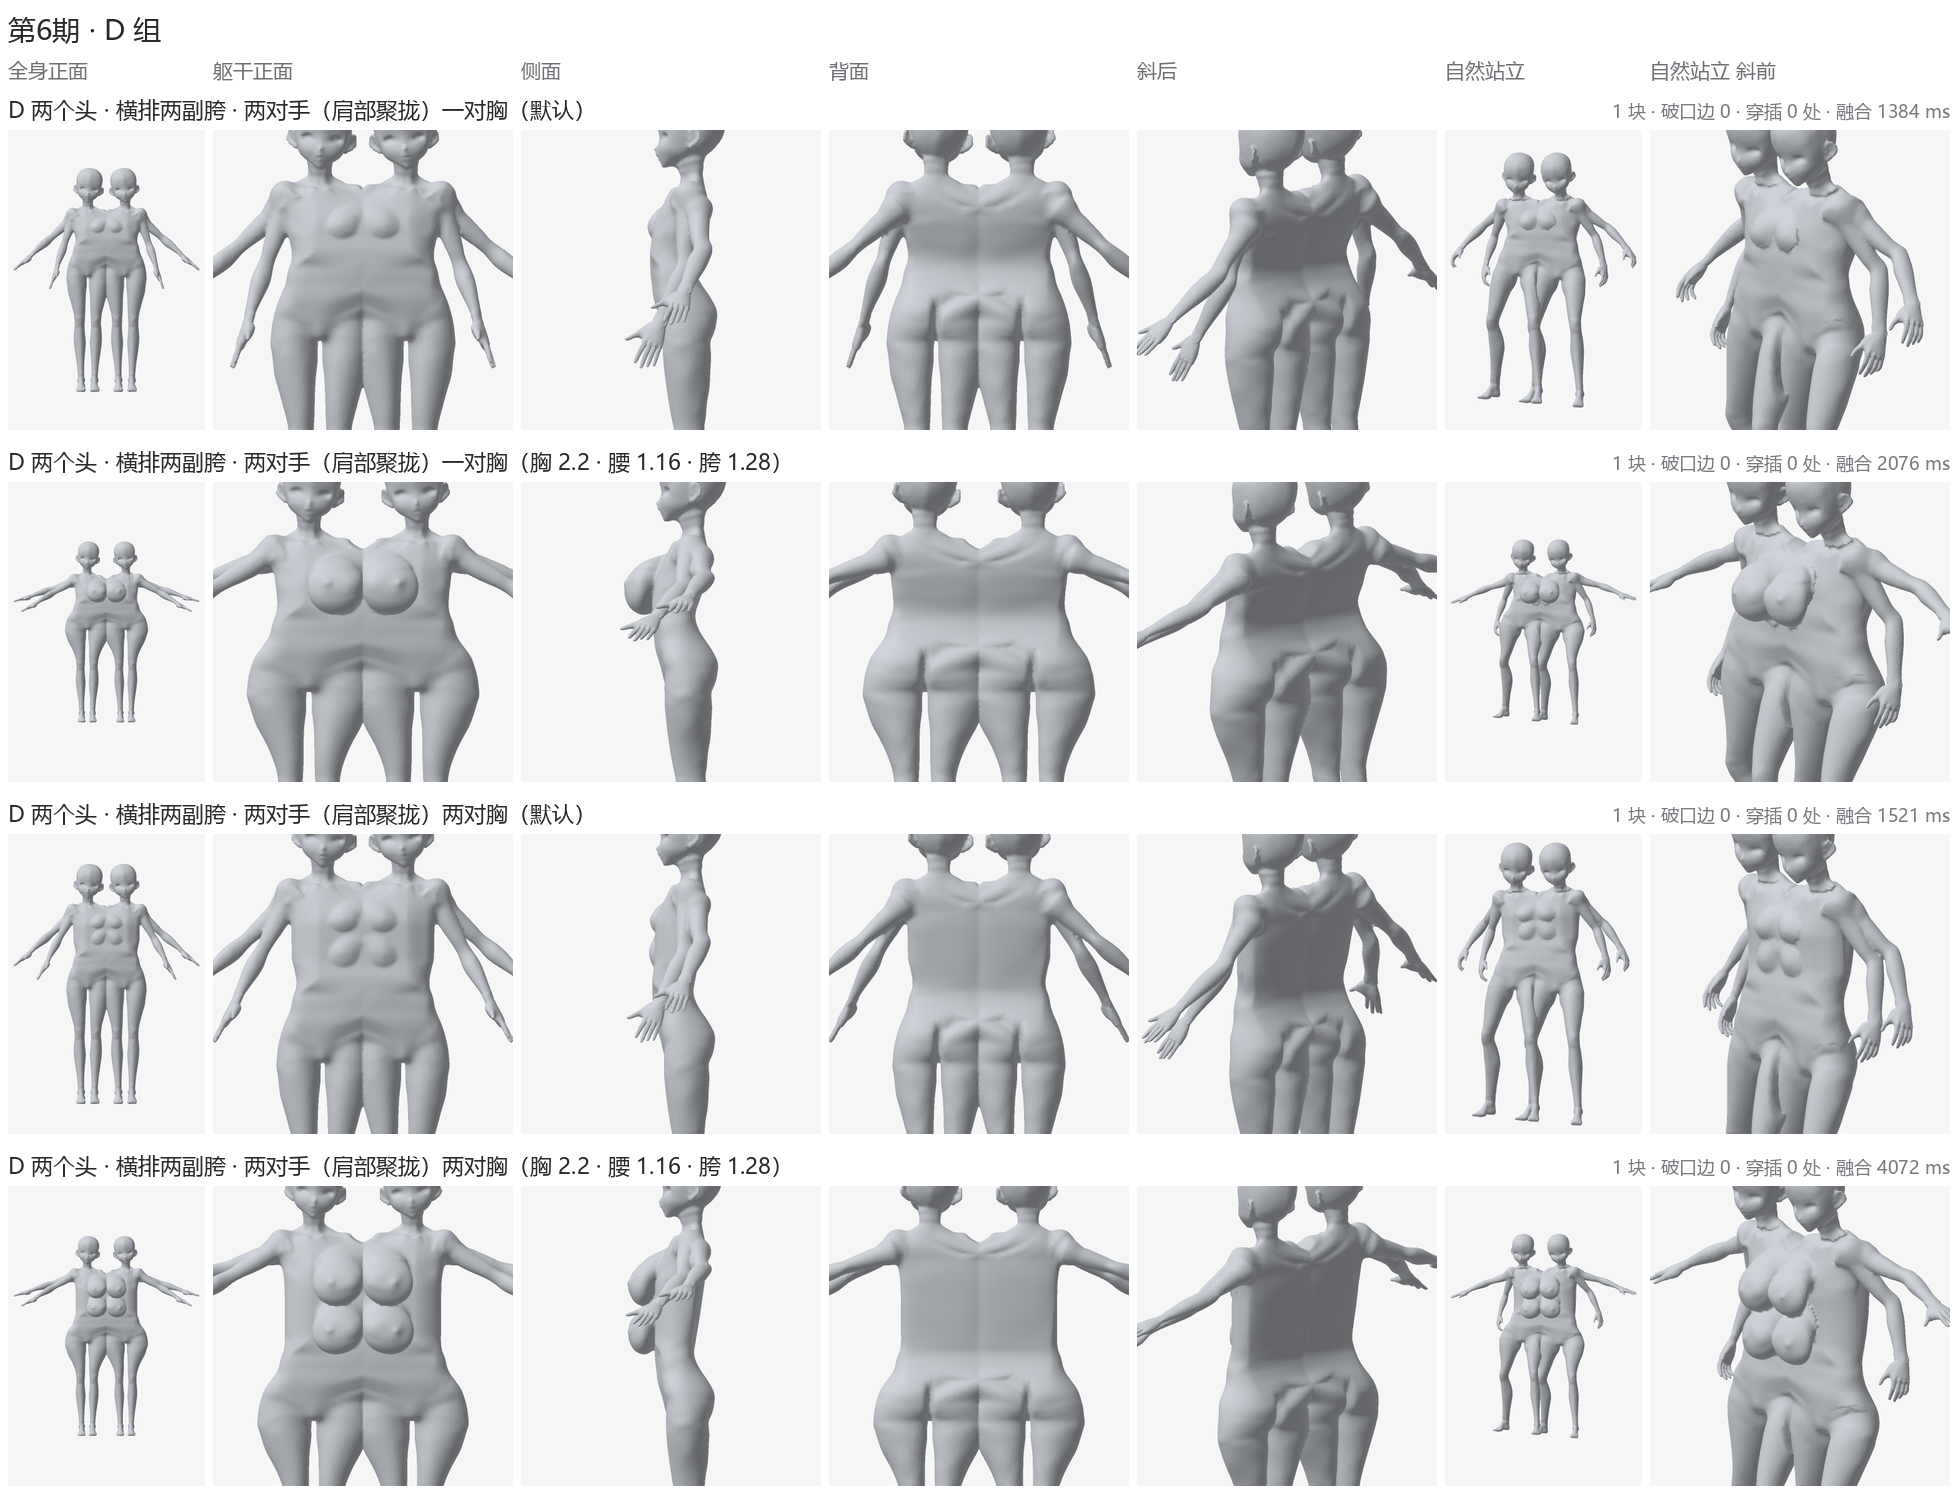
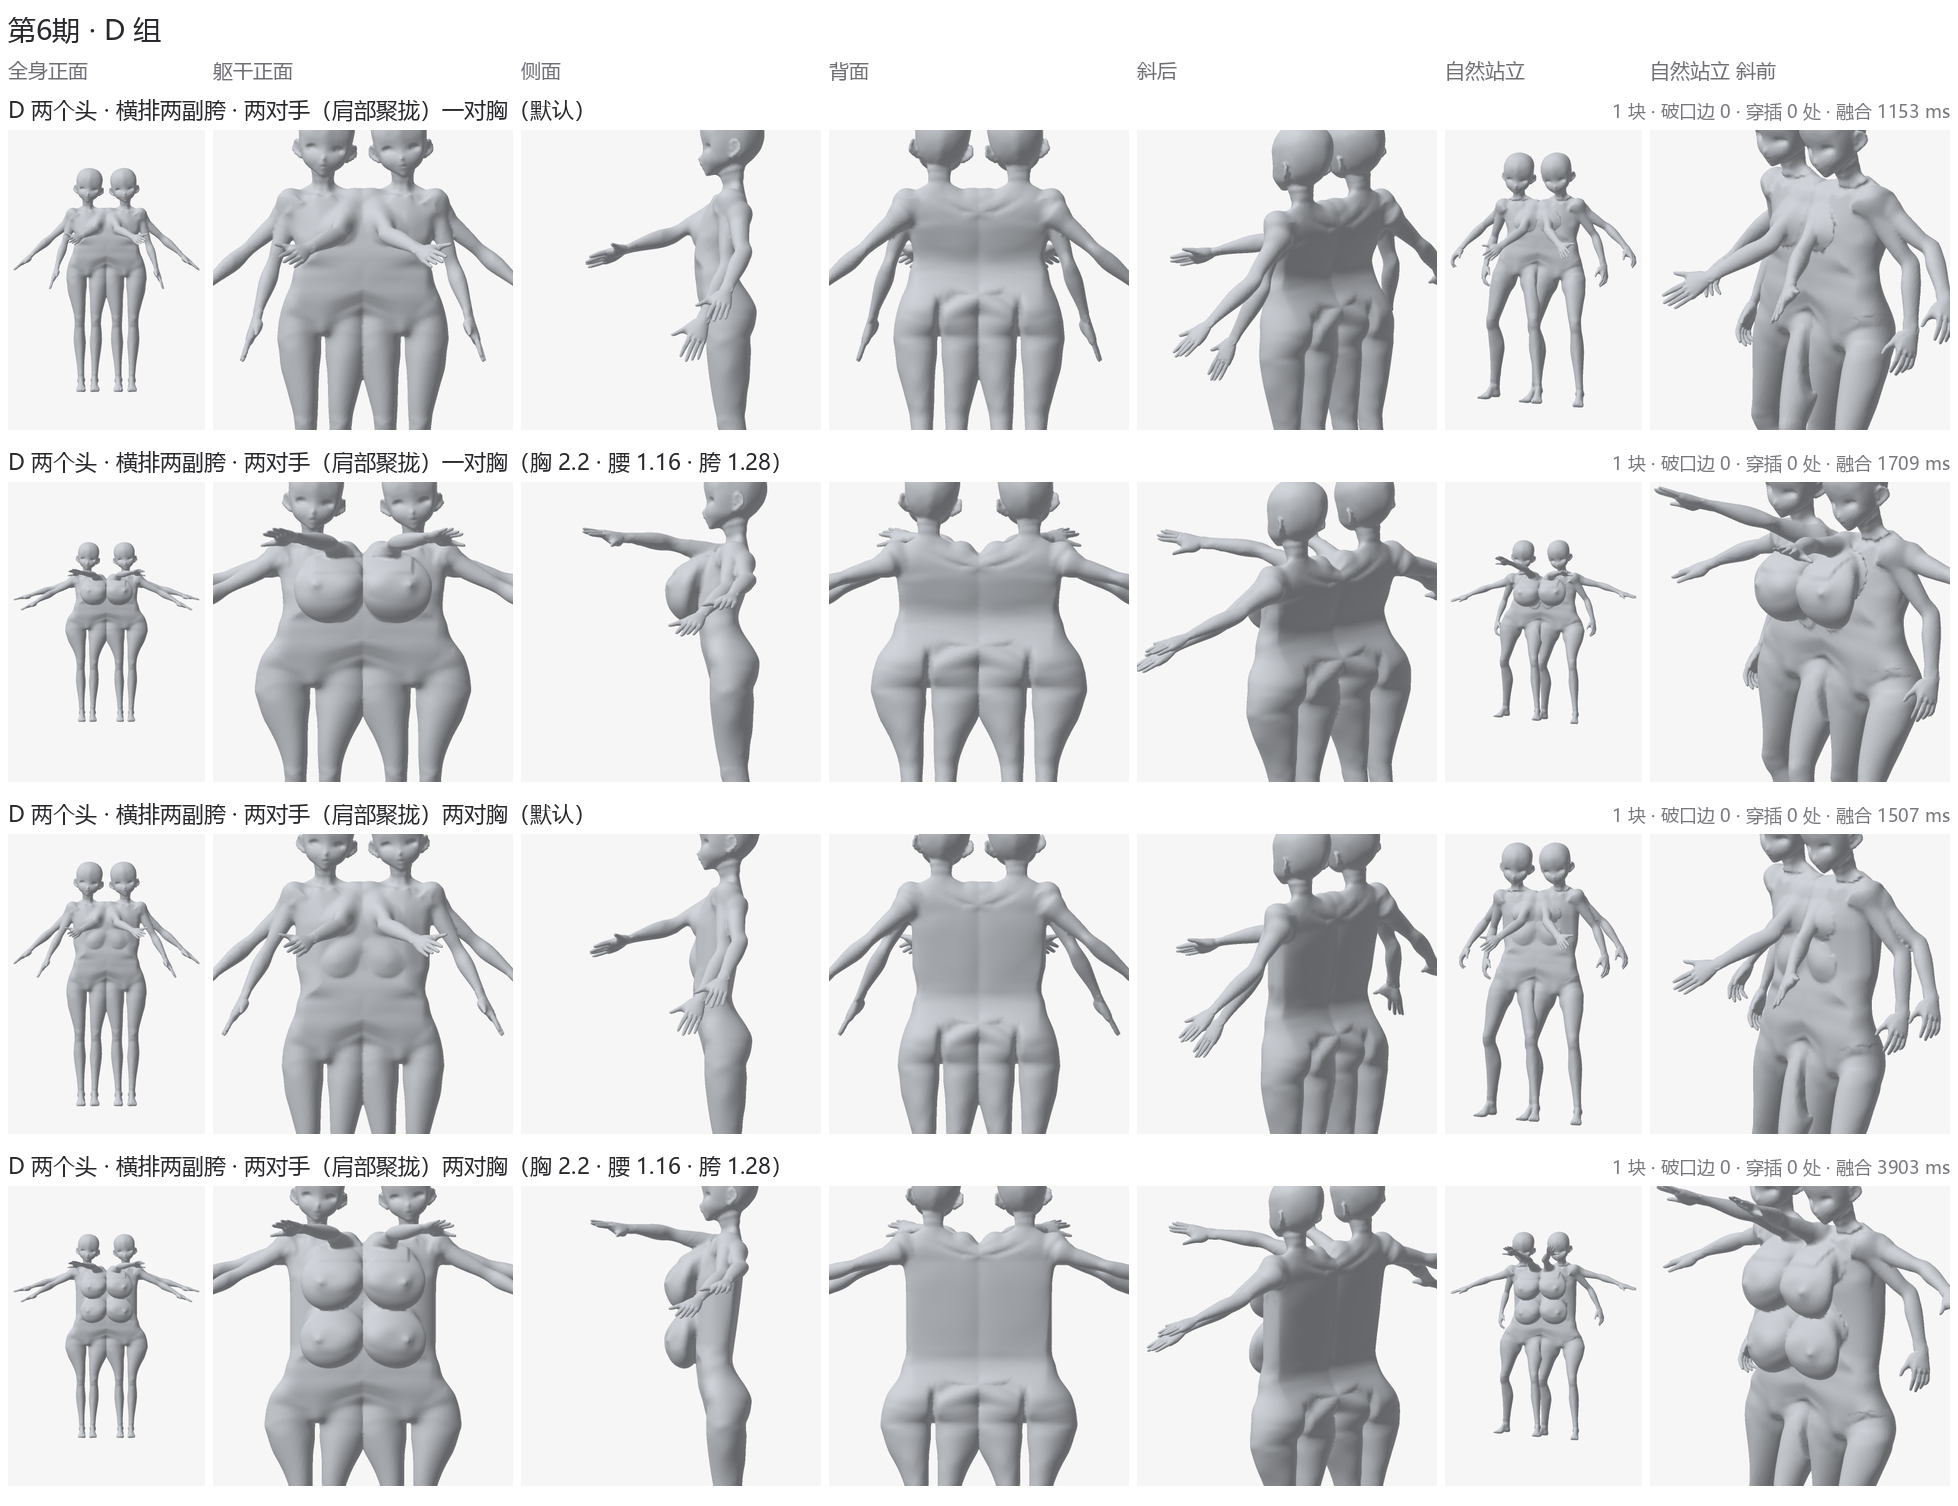
宽躯干（C、D）：正中的胸放大 1.3 倍，每个人里侧加一条手臂
- 正中那对胸照正中线放大 1.3 倍（WIDE_CHEST），多排胸的排距跟着放大
- 每个人里侧的肩膀上一条手臂（对面那个人外侧最贴身的那条挪过来），往前伸、往自己那边偏，
  胸越大抬得越高（胸 1.6 以上多抬 40 度，不擦着放大过的胸顶，网格不破洞）
- 测试和验收（docs/accept/6-wide）

diff --git a/src/geometry/animeLayout.ts b/src/geometry/animeLayout.ts
@@ -15,6 +15,7 @@ import { FINGER_JOINTS, HAND_STUMP, handGraft } from '../anime/hand';
 import { type BodySpec, legPlan } from '../model/spec';
 import { type CompiledField, castRay, compileField } from '../sdf/field';
 import { wideFrame } from '../sdf/grids';
+import { BESIDE_DROP, BESIDE_YAW } from './torsos';
 import { type Stretch, restretch } from '../sdf/stretch';
 import { type Figure, type Graft, type GridShape, type Part, type Prim, type SpreadX, type WidenBand, nthName } from './figure';
 import { type CustomHead, type HeadHair, makeFace, makeHead } from './head';
@@ -146,6 +147,13 @@ const ROW_TAPER = 0.3;
  */
 const BACK_BAND: [number, number] = [1.06, 1.24];
 const BACK_BLEND: [front: number, back: number] = [0.03, -0.03];
+/**
+ * 并成一个宽躯干的（C、D）：正中那对胸（按一个人算）整个放大几倍（沿表面横着、竖着、往外都放大，照正中线放大，乳沟不挤扁）：
+ * 一个人的胸贴在两个人宽的躯干上看着小，照参考图 CD-2、CD-3 正中那对要大一截。多排胸的排距跟着放大
+ */
+const WIDE_CHEST = 1.3;
+/** 并成一个宽躯干的，里侧的手臂胸 1.6 以上多抬多少（见下面里侧的手臂） */
+const WIDE_ARM_LIFT = 40 * (Math.PI / 180);
 /** 多排胸时手臂沿躯干上下排隔多远：第二对从第一对下面一点、腋下的肋骨侧面长出来（照参考图 A-arms-3d、A-rows-arms），不跟着胸一排排往下 */
 const ARM_ROW = 0.1;
 /** 腰最细的地方大概多高（人腿人马后面接的那截腰照这里的粗细） */
@@ -346,7 +354,7 @@ export function layoutAnime(spec: BodySpec): Figure {
   /** 每排胸照设定多大：往小调时不缩小，整个往胸口里沉（见下面胸）。下排和第一排一比一（以前往下每排小一成） */
   const rowSize = Math.max(1, sh.bust);
   /** 相邻两排隔多远（手臂沿躯干上下排时也照它排）：多排胸照胸的大小排（见 rowTuck），只有多排手臂的照 GAP */
-  const [reachUp, reachDown] = chestReach(rowSize);
+  const [reachUp, reachDown] = chestReach(rowSize).map((r) => r * (twinned ? WIDE_CHEST : 1));
   /** 胸中心在平胸表面上的哪一点（u 沿表面横着、高度，素体自己的坐标），见下面每排胸 */
   const [chestU, chestV] = chestCenter(sh.bust);
   const gap = c.chestPairs > 1 ? reachDown + (1 - rowTuck(rowSize)) * reachUp + ROW_ROOM : GAP;
@@ -451,7 +459,7 @@ export function layoutAnime(spec: BodySpec): Figure {
   const chestAt = surfacePoint(chestFrame(), chestU, chestV);
   const chestRows = Array.from({ length: c.chestPairs }, (_, j) => {
     const y = raised(chestV) - j * gap;
-    const at = wide ? surfacePoint(wide, chestU, y) : chestAt;
+    const at = wide ? surfacePoint(wide, chestU * WIDE_CHEST, y) : chestAt;
     return { y, x: wide ? at[0] : at[0] + pushed(at[0], at[1]), z: at[2], lift: raised(chestV) - chestV - j * gap, size: rowSize };
   });
 
@@ -726,6 +734,44 @@ export function layoutAnime(spec: BodySpec): Figure {
     }
   }
 
+  /*
+   * 并成一个宽躯干的（C、D）：每个人里侧的肩膀上也长一条手臂（照参考图 CD-2、CD-3），排在外侧那几对后面。
+   * 就是对面那个人外侧最贴身的那条挪过来（里侧那个肩膀和外侧的对着那个人自己的正中线左右对称），从两根脖子中间那块肩膀上长出来，
+   * 姿势和两个上半身直立并排时里侧的手臂一样（见 torsos.ts 的 BESIDE_DROP）：往前伸、往自己那边偏；胸越大抬得越高（胸 1.6 以上多抬 WIDE_ARM_LIFT，往前略微朝上；
+   * 抬得少的话前臂擦着放大过的胸顶过去，融出来的网格在那里破洞），
+   * 从正中那对放大过的胸上面过去，不埋进胸里。
+   * 外侧聚拢着好几条的，里侧也只长一条：第二条要抬到平举，正面看像一根横在胸口上的棍
+   */
+  if (twinned) {
+    for (const outer of parts.filter((p) => p.type === 'arm' && p.name.startsWith(`Arm_${pad(c.armPairs)}_`))) {
+      const side = outer.side as 1 | -1;
+      const i = Number(/^Arm_(\d+)_/.exec(outer.name)![1]) - 1;
+      const k = c.armPairs + i - (c.armPairs - 1);
+      const name = (base: string) => nthName(`${base}_${tag(side)}`, k);
+      /** 这条手臂长在哪个人身上（-side 那一份），往那个人的正中偏 */
+      const own = -side;
+      const drop = BESIDE_DROP + WIDE_ARM_LIFT * smooth((sh.bust - 1) / 0.6);
+      const toward = (a: number): V3 => [own * Math.sin(BESIDE_YAW) * Math.sin(a), -Math.cos(a), Math.cos(BESIDE_YAW) * Math.sin(a)];
+      const dir = toward(drop);
+      const turn = quatBetween([side, 0, 0], dir);
+      const pos: V3 = [outer.pos[0] - 2 * side * twinD, outer.pos[1], outer.pos[2]];
+      const collar = rotate(quatConj(turn), [-side * Math.max(Math.abs(pos[0] - own * twinD) - 0.025, 0.02), 0.012, 0]);
+      const rename = (b: string) => (/^(Shoulder|UpperArm|LowerArm|Hand|Thumb|Index|Middle|Ring|Little)/.test(b) ? name(b.replace(/_[LR](\.\d+)?$/, '')) : b);
+      const { fuseAs: _, ...rest } = outer;
+      parts.push({
+        ...rest,
+        name: `Arm_${pad(k + 1)}_${tag(side)}`,
+        pos,
+        quat: turn,
+        grafts: [{ ...handGraft(name), ...handPlace(side, bend, elbow, handSize) }],
+        bones: outer.bones!.map((b, n) =>
+          n === 0 ? { ...b, name: rename(b.name), head: collar } : { ...b, name: rename(b.name), parent: b.parent === undefined ? undefined : rename(b.parent) },
+        ),
+        bind: quatBetween(dir, toward(Math.max(drop, Math.PI / 2))),
+      });
+    }
+  }
+
   /* ---- 胸：贴在躯干表面上的一层（见 anime/chest.ts、ChestShape），和躯干取并集 ---- */
   // 胸贴着的那块躯干和躯干一样加宽、加长；并成一个宽躯干的就是并好的那一块（胸贴在它外面，见 ChestShape.wide）
   const chestBody: GridShape = { ...torsoShape, name: 'Torso' };
@@ -762,8 +808,11 @@ export function layoutAnime(spec: BodySpec): Figure {
             size: sh.bust,
             lift,
             ...(wide ? { wide: true } : {}),
-            ...(o?.position ? { shift: [move[0] * flip, move[1], move[2]] as V3 } : {}),
-            ...(o?.scale ? { scale: o.scale } : {}),
+            // 并成一个宽躯干的照正中线放大（见 WIDE_CHEST）：中心跟着往外挪
+            ...(o?.position || wide ? { shift: [move[0] * flip + (wide ? chestU * (WIDE_CHEST - 1) : 0), move[1], move[2]] as V3 } : {}),
+            ...(o?.scale || wide
+              ? { scale: [0, 1, 2].map((k) => (o?.scale?.[k] ?? 1) * (wide ? WIDE_CHEST : 1)) as V3 }
+              : {}),
             ...(o?.rotation || droop ? { tilt: [(o?.rotation?.[0] ?? 0) + droop, o?.rotation?.[1] ?? 0, o?.rotation?.[2] ?? 0] as V3 } : {}),
           },
         ],

diff --git a/tests/twin.test.ts b/tests/twin.test.ts
@@ -2,6 +2,7 @@
 import { describe, expect, it } from 'vitest';
 import type { GridShape, Part } from '../src/geometry/figure';
 import { buildFigure } from '../src/geometry/layout';
+import { rotate, sub } from '../src/geometry/vec';
 import { type BodyCounts, type BodySpec, defaultSpec } from '../src/model/spec';
 import { castRay, compileField, fieldAt } from '../src/sdf/field';
 import { fuseParts } from '../src/sdf/fuse';
@@ -38,7 +39,7 @@ describe('两个人并成一个宽躯干', () => {
     expect(wide?.d).toBeCloseTo(twinOf(make())!.d, 9);
   });
 
-  it('两根脖子、两副胯各在一份底下；胸按一个人算摆在正中；手臂都长在两边外侧；左右对称', () => {
+  it('两根脖子、两副胯各在一份底下；胸按一个人算摆在正中、放大；外侧的手臂照设定，里侧各一条往前伸；左右对称', () => {
     useAnimeBody();
     const f = buildFigure(make());
     const d = twinOf(make())!.d;
@@ -58,10 +59,22 @@ describe('两个人并成一个宽躯干', () => {
     expect(at('Chest_01_L')[0]).toBeLessThan(0.08);
     expect(at('Chest_01_L')[0]).toBeCloseTo(-at('Chest_01_R')[0], 9);
     for (const c of chests) expect((c.prims[0] as { wide?: boolean }).wide, c.name).toBe(true);
-    // 六条手臂都在外侧那一份的肩膀上
+    for (const c of chests) expect((c.prims[0] as { scale?: number[] }).scale, c.name).toEqual([1.3, 1.3, 1.3]);
+    // 外侧那一份的肩膀上照设定三对（六条），里侧的肩膀（两根脖子中间）每个人一条：排在后面，往前伸、往那个人自己的正中偏
     const arms = f.parts.filter((p) => p.type === 'arm');
-    expect(arms).toHaveLength(6);
-    for (const arm of arms) expect(Math.abs(arm.pos[0]), arm.name).toBeGreaterThan(d + 0.05);
+    expect(arms).toHaveLength(8);
+    const inner = arms.filter((p) => Math.abs(p.pos[0]) < d);
+    expect(inner.map((p) => p.name).sort()).toEqual(['Arm_04_L', 'Arm_04_R']);
+    for (const arm of arms.filter((p) => !inner.includes(p))) expect(Math.abs(arm.pos[0]), arm.name).toBeGreaterThan(d + 0.05);
+    for (const arm of inner) {
+      // 长在 -side 那个人身上（左手长在右边那个人的里侧），离正中线不远
+      expect(Math.sign(arm.pos[0]), arm.name).toBe(-arm.side);
+      const bone = arm.bones!.find((b) => b.name.startsWith('UpperArm'))!;
+      const dir = rotate(arm.quat, sub(bone.tail, bone.head));
+      expect(dir[2], arm.name).toBeGreaterThan(Math.abs(dir[0]) * 2);
+      expect(Math.sign(dir[0]), arm.name).toBe(-arm.side);
+      expect(arm.bones!.every((b) => !/_[LR](\.\d+)?$/.test(b.name) || b.name.endsWith('.004')), arm.name).toBe(true);
+    }
     // 腿：每副胯两条，在那一份的原位（离它的正中一个髋关节宽），Leg_01 是左边那副
     const legs = f.parts.filter((p) => p.type === 'leg');
     expect(legs).toHaveLength(4);

diff --git a/src/geometry/torsos.ts b/src/geometry/torsos.ts
@@ -102,8 +102,8 @@ const UPRIGHT_HEAD_GAP = 0.01;
  * 试过垂在身前（手落在自己那边的胯前，照参考图）：胸 1 时好看，大胸时穿进里侧挤在一起的胸里，套姿势时手插进大腿
  */
 const BESIDE_ROOT = 0.045;
-const BESIDE_DROP = 62 * (Math.PI / 180);
-const BESIDE_YAW = 15 * (Math.PI / 180);
+export const BESIDE_DROP = 62 * (Math.PI / 180);
+export const BESIDE_YAW = 15 * (Math.PI / 180);
 const BESIDE_STEP = 30 * (Math.PI / 180);
 /** 往前伸的手臂融合时抬多少：最低的那条正好抬平 */
 const INNER_BIND_LIFT = 90 * (Math.PI / 180) - INNER_ARM_DROP;

diff --git a/docs/rework-plan.md b/docs/rework-plan.md
@@ -170,6 +170,12 @@
 - 还在的：一个人的胸放在两个人宽的躯干上看着偏小（参考图 CD-2、CD-3 正中那对很大），要不要放大等你看图；套「自然站立」时 D 的胸、脖子根一圈有毛边，C 正中两只胸之间被两根脊柱扯出一道皱（D 的毛边改前就有：摆姿势时重新融合的那几块和照权重弯的躯干对不齐）。
 - 验收：[accept/6-wide](accept/6-wide/)。
 
+胸和中间的手臂（11-02，他选「Fix chest and arms first」）：
+- 正中那对胸放大 1.3 倍（`animeLayout.ts` 的 WIDE_CHEST，沿表面横着、竖着、往外都放大，中心跟着往外挪，等于照正中线放大，乳沟不挤扁）；多排胸的排距跟着放大。试了 1 倍（偏小）、1.5 倍（两排叠成一大片）。
+- 中间的手臂：每个人里侧的肩膀上一条（照参考图 CD-2、CD-3），排在外侧那几对后面（C 里跟着那个人的上半身走）。就是对面那个人外侧最贴身的那条挪过来（里侧肩膀和外侧的对着那个人自己的正中线对称）。姿势和 B 里侧的一样：往前伸、往自己那边偏 15 度；胸越大抬得越高，胸 1.6 以上多抬 40 度（往前略微朝上）。
+- 试过的：外侧聚拢几条、里侧也长几条（第二条要抬到平举，正面看像一根横在胸口上的棍，还在两条手臂之间破洞）；大胸只多抬 20、28 度（前臂擦着放大过的胸顶过去，融出来的网格在那里破洞，C、D 两种、胸 1–2.3 扫过 24 种，40 度时都没有）。
+- 还在的：大胸时中间的手臂往前略微朝上，正面看缩成横在下巴底下的一截。
+
 ### 第 7 期　收尾
 
 - 删掉没用的代码和常数；README 里多上半身、胸的几段重写，配新的对比图。
